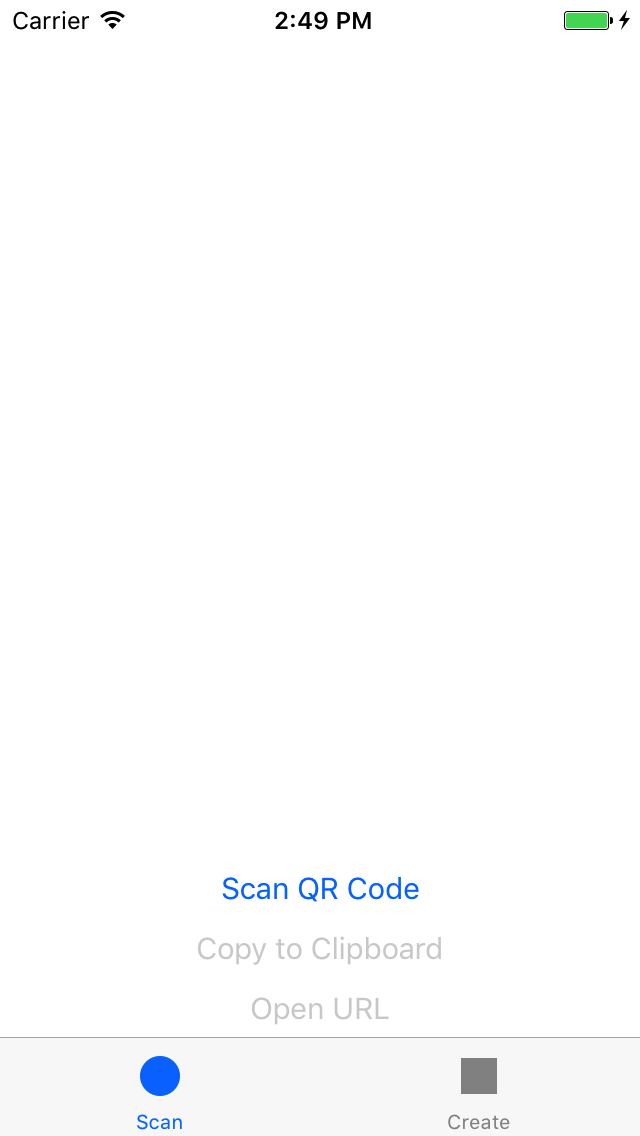
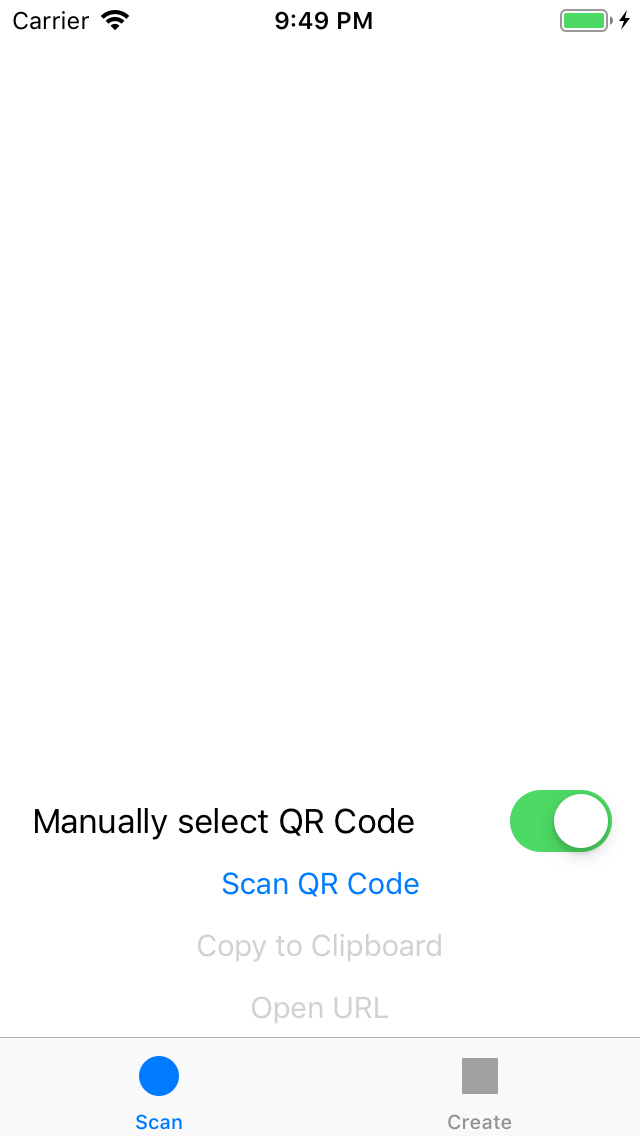
Support manual selection of QR codes

diff --git a/QR/FirstViewController.swift b/QR/FirstViewController.swift
@@ -7,7 +7,8 @@ class FirstViewController: UIViewController {
 	@IBOutlet weak var outputLabel: UILabel!
 	@IBOutlet weak var copyToClipboardButton: UIButton!
 	@IBOutlet weak var openUrlButton: UIButton!
-
+	@IBOutlet weak var manualSelection: UISwitch!
+	
 	private var reader: QRCodeReader? = nil
 
 	override func viewDidLoad() {
@@ -31,6 +32,8 @@ class FirstViewController: UIViewController {
 		reset()
 
 		reader = QRCodeReader()
+		reader!.manualSelection = manualSelection.isOn
+
 		do {
 			try	reader!.startScanning() {
 				decodedQrCode in
